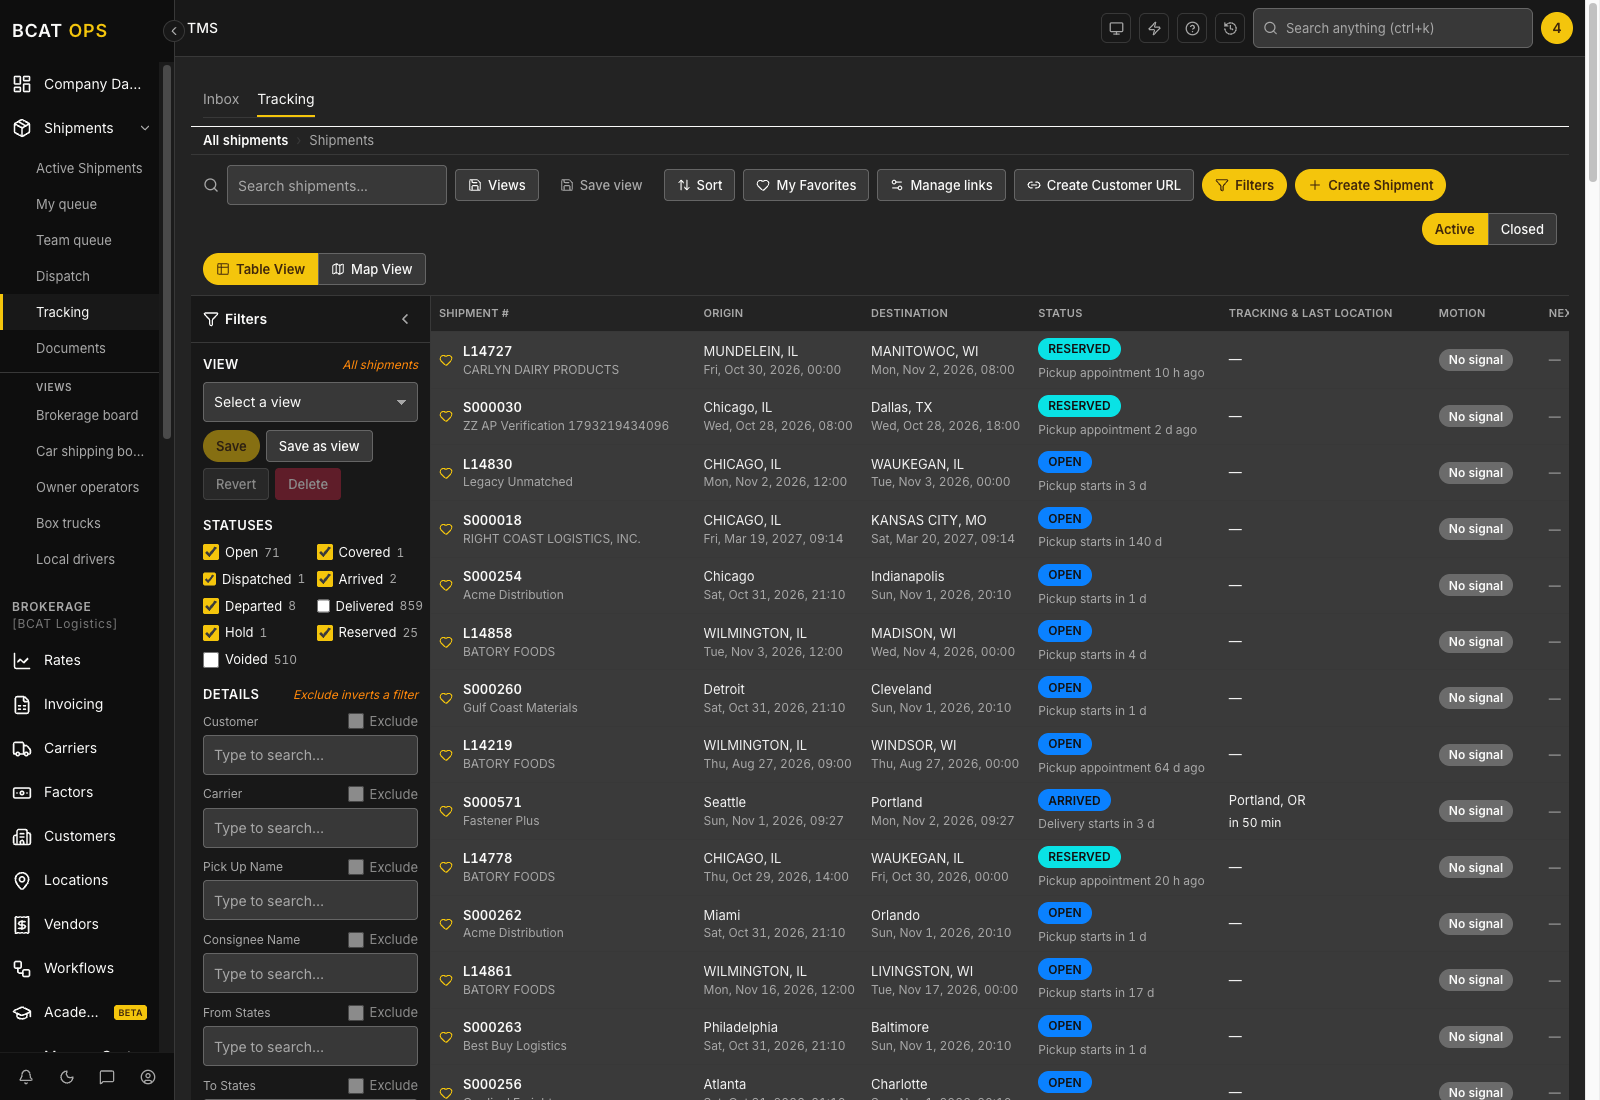
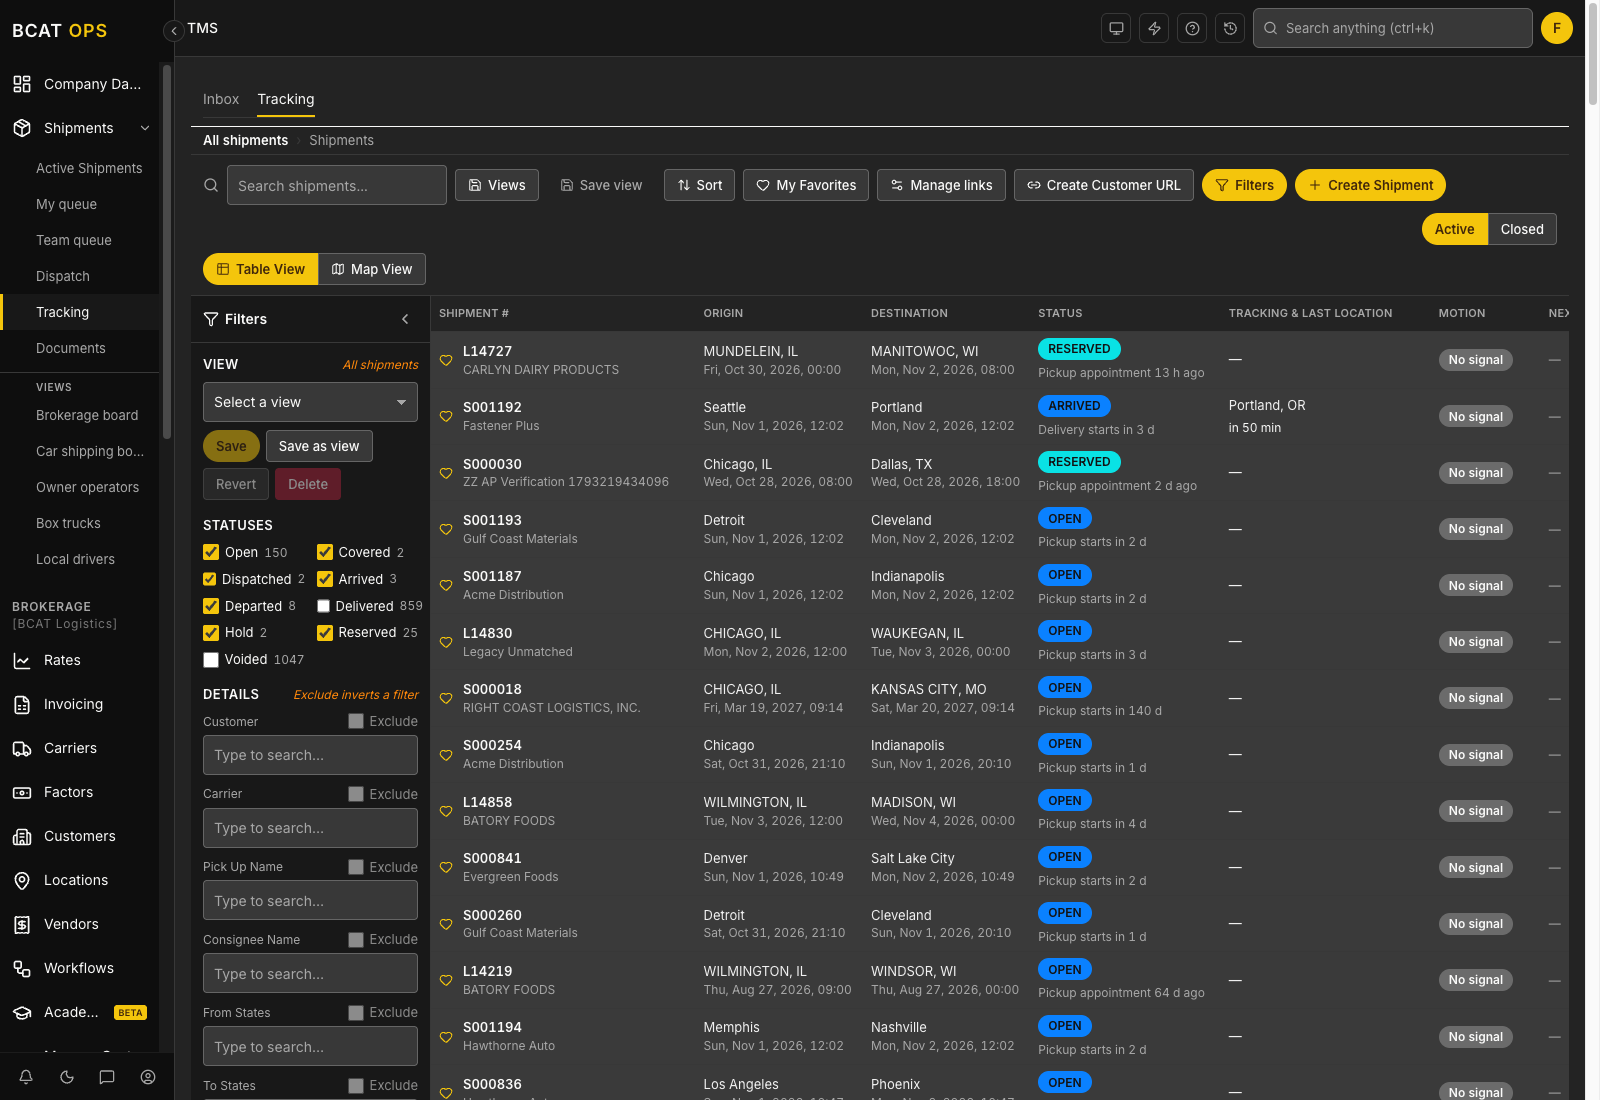
fix(tms): exclude voided/canceled loads from carrier booking-conflict check so demo reset can rebook demo carriers

diff --git a/amplify/functions/tms-shipment-actions/handler.ts b/amplify/functions/tms-shipment-actions/handler.ts
@@ -4369,7 +4369,15 @@ async function bookCarrier(input: Row, caller: Caller, extra?: BookCarrierExtra)
   const otherRows = (await queryIndex(LOAD_CARRIER_TABLE_NAME, IDX_CARRIERS_BY_CARRIER_ID, 'carrierId', carrierId))
     .filter((c) => c.status === 'ACTIVE' && String(c.loadId) !== loadId)
   const otherLoads = await batchGetByIds(LOAD_TABLE_NAME, otherRows.map((c) => String(c.loadId)))
-  const pickupByLoad = new Map(otherLoads.map((l) => [String(l.id), optionalString(l.pickupAppt, 60)]))
+  const activeOtherLoads = new Map(
+    otherLoads
+      .filter((l) => !l.voidedAt && l.status !== 'CANCELED')
+      .map((l) => [String(l.id), l] as const),
+  )
+  const activeOtherRows = otherRows.filter((c) => activeOtherLoads.has(String(c.loadId)))
+  const pickupByLoad = new Map(
+    activeOtherRows.map((c) => [String(c.loadId), optionalString(activeOtherLoads.get(String(c.loadId))?.pickupAppt, 60)]),
+  )
 
   const { blocks, warnings } = evaluateCarrierBooking({
     carrier: carrier as unknown as CarrierRecord,
@@ -4386,7 +4394,7 @@ async function bookCarrier(input: Row, caller: Caller, extra?: BookCarrierExtra)
     },
     financials: existingFinancials ? { topSpendCents: numberOrNull(existingFinancials.topSpendCents) } : null,
     carrierRateCents,
-    otherActiveLoadCarriers: otherRows.map((c) => ({
+    otherActiveLoadCarriers: activeOtherRows.map((c) => ({
       loadId: String(c.loadId),
       pickupAppt: pickupByLoad.get(String(c.loadId)) ?? null,
     })),
